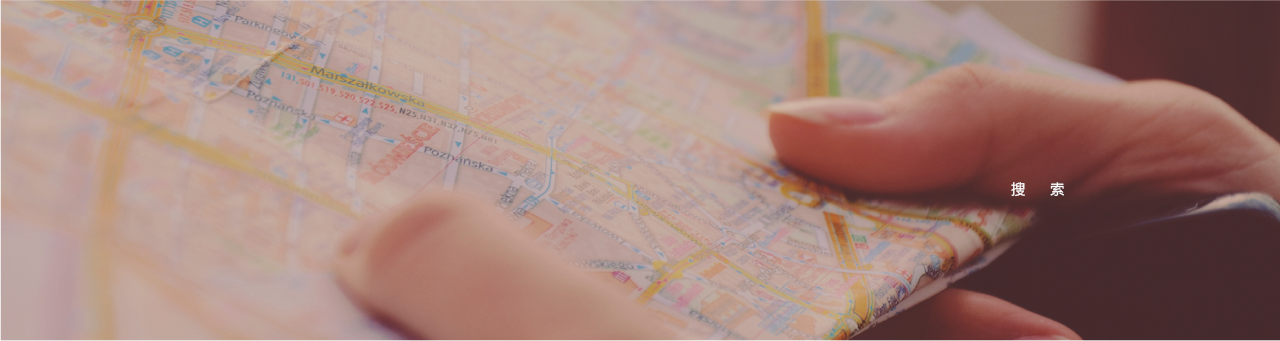
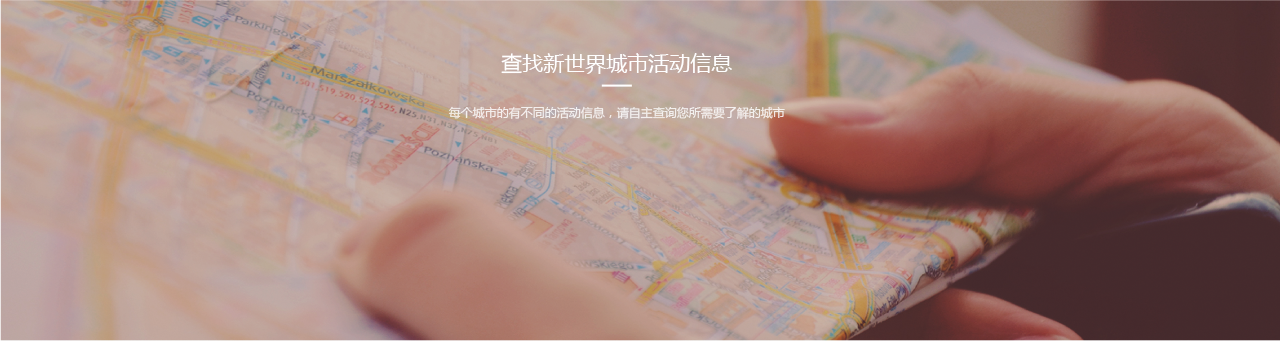
mission-7 new

Changed region(s): [[0.375, 0.1466, 0.5938, 0.2639], [0.3438, 0.2933, 0.625, 0.3519], [0.7812, 0.5279, 0.8438, 0.5865]]

diff --git a/mission-7/mission-7.html b/mission-7/mission-7.html
@@ -184,7 +184,6 @@
 		}
 		.rightContent p{
 			font-size: 12px;
-			font-family: "Microsoft YaHei";
 			font-family: "SimSun";
 			color: #cecfcf;
 			text-align: left;
@@ -252,6 +251,65 @@
 		.newlife .white .lookmore .btn{
 			border: 1px solid #e74f4d;
 			color: #e74f4d;
+		}
+
+		.volunteer{
+			height: 180px;
+			text-align: center;
+		}
+		.volunteer hr{
+			height: 2px;
+			width: 30px;
+			color: #e74f4d;
+			margin: 10px auto 16px;
+		}
+		.volunteer h1{
+			font-size: 21px;
+			font-family: "SimHei";
+			color: #323333;
+			margin-top: 120px;
+		}
+		.volunteer p{
+			font-size: 12px;
+			font-family: "Microsoft YaHei";
+			color: #767777;
+		}
+
+		.form{
+			width: 1005px;
+			height: 285px;
+			margin: -35px auto 0;
+		}
+		.more{
+			width: 290px;
+			height: 285px;
+			float: left;
+		}
+		.more h1{
+			font-size: 14px;
+			font-family: "SimHei";
+			color: #767777;
+			clear: both;
+			margin:35px 0 25px;
+		}
+		.more p{
+			font-size: 12px;
+			font-family: "SimSun";
+			color: #767777;
+			clear: both;
+		}
+		.more .drop{
+			font-size: 12px;
+			float: right;
+			color: #767777;
+		}
+		.more .drop img{
+			margin-right: 6px;
+		}
+
+		.form form{
+			width:640px;
+			height: 284px;
 		}
 	</style>
 </head>
@@ -322,6 +380,32 @@
 					<div class="btn">查看更多</div>
 				</div>
 			</div>
+		</div>
+		<div class="volunteer">
+			<h1>成为我们的志愿者</h1>
+			<hr />
+			<p>新世界的大家庭需要买一个爱生活的人的加入，如果你够年轻，有梦想，有激情</p>
+			<p>那就不要犹豫，快来加入我们，成为改变所有人生活的人</p>
+		</div>
+		<div class="form">
+			<div class="more">
+				<h1>新世界志愿者协议</h1>
+				<p>加入新世界志愿者的人员必须遵守中华人民共和国的相关法律法规，并且本着平等资源的原则. . . . . . </p>
+				<div class="drop"><img src="./img/drop.png">more</div>
+				<h1>新世界志愿者权利</h1>
+				<p>新世界志愿者享受新世界内部所有资源共享的权利，并且享受所在四新世界活动的优先参与资格</p>
+				<div class="drop"><img src="./img/drop.png">more</div>
+				<h1>更多条款</h1>
+				<div class="drop"><img src="./img/drop.png">more</div>
+			</div>
+			<form>
+				<div class="little-left"></div>
+				<div class="little-right"></div>
+				<div class="little-left"></div>
+				<div class="little-right"></div>
+				<div class="normal"></div>
+				<div class="big"></div>
+			</form>
 		</div>
 	</div>
 </body>
